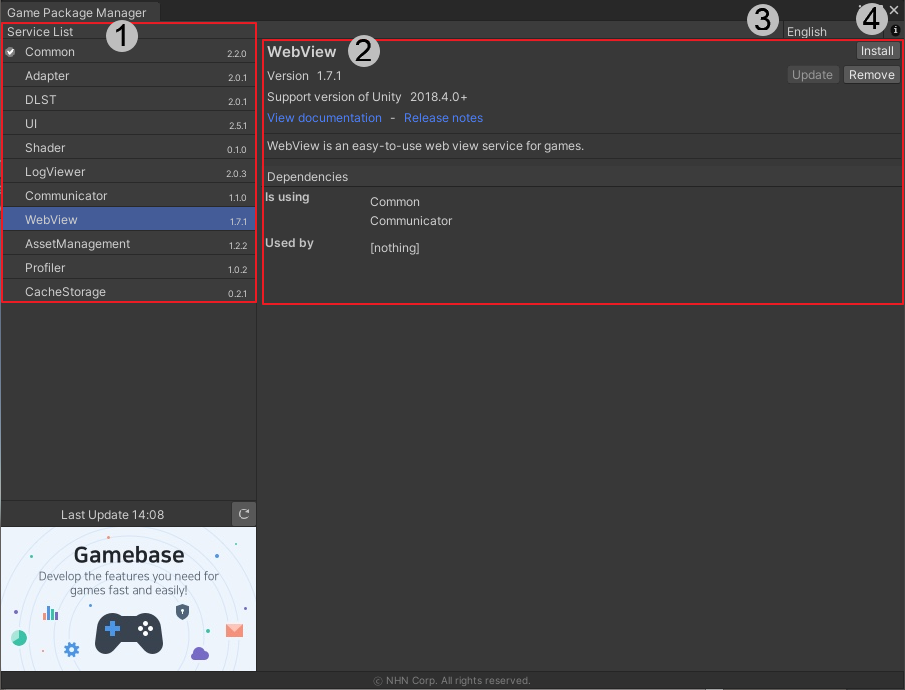
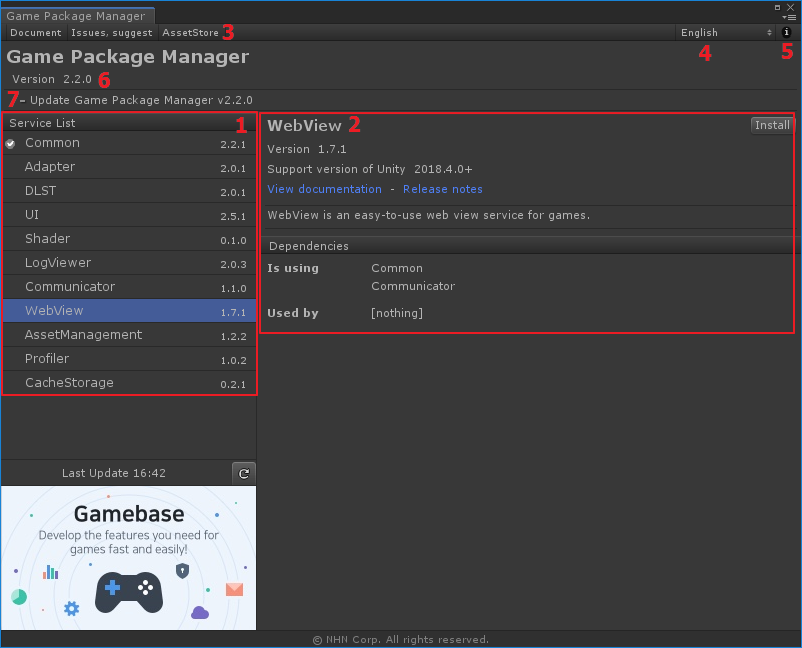
메니저 2.2.0 업데이트
메니저 2.2.0 업데이트

Changed region(s): [[0.0, 0.0, 1.0, 1.0], [0.2494, 0.5864, 0.3117, 0.6173], [0.6858, 0.3086, 0.717, 0.3395]]

diff --git a/docs/Manager/README.en.md b/docs/Manager/README.en.md
@@ -44,12 +44,25 @@ Check the service list from Manager, while you install, remove, or update servic
 * Click [Update] to update service.
 * Service which under preparation shows [Under Preparation].
 
-### 3. Language
+### 3. Menu
+* Lets you open the Association page.
+    * Click [Document] to view Game Package Manger documents.
+    * Click [Issues,suggest] to suggest issues such as bug fixes, new functions, etc.
+    * Click [AssetStore] to view the Game Package Manger Asset Store page.
+
+### 4. Language
 
 * Change the language. 
 
-### 4. Information
+### 5. Information
 
 * Check your manager information.  
     * Version information
     * Supporting mail
+
+### 6. Version
+* Can check the version of Game Package Manger.
+
+### 7. Notice
+* Can check the notice in Game Package Manger.
+    * Clicking the notice opens a detailed page.

diff --git a/docs/Manager/ReleaseNotes.md b/docs/Manager/ReleaseNotes.md
@@ -2,6 +2,21 @@
 
 🌏 [English](ReleaseNotes.en.md)
 
+## 2.2.0
+
+### Date
+
+* 2022.07.26
+
+### Added
+* 문서보기, 이슈, 스토아 경유 메뉴 추가
+* 업데이트 관리 가능 관리 기능 추가
+* 공지 기능 추가
+
+###  Updated
+* Common 2.2.1 업데이트
+* 이미지 페이지 넘기기 이미지 버튼으로 변경
+
 ## 2.1.0
 
 ### Date

diff --git a/docs/Manager/ReleaseNotes.en.md b/docs/Manager/ReleaseNotes.en.md
@@ -2,6 +2,20 @@
 
 🌏 [한국어](ReleaseNotes.md)
 
+## 2.2.0
+
+### Date
+
+* 2022.07.26
+
+### Added
+* Added document, issue, store menu
+* Added Update Manageable Manageability
+* Added Announcement Features
+
+### Updated
+* Updated Common v2.2.1
+
 ## 2.1.0
 
 ### Date
